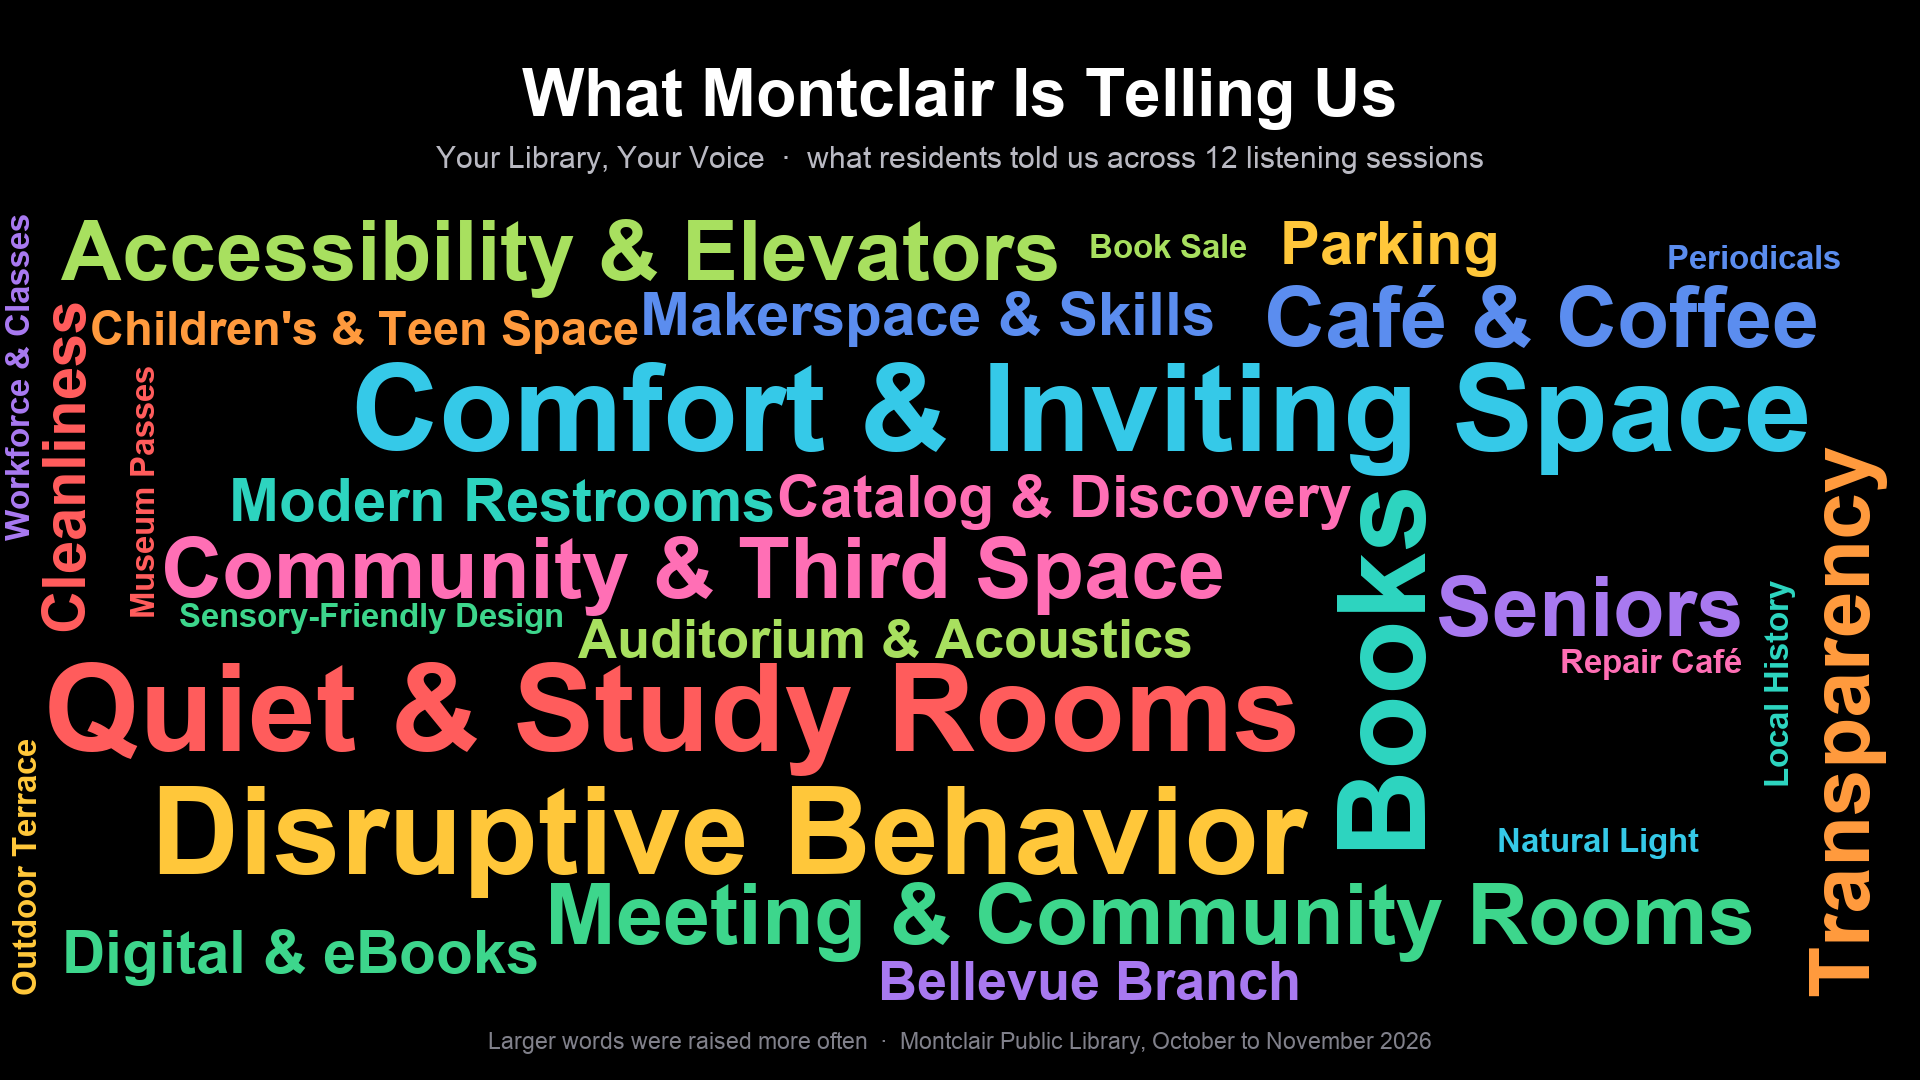
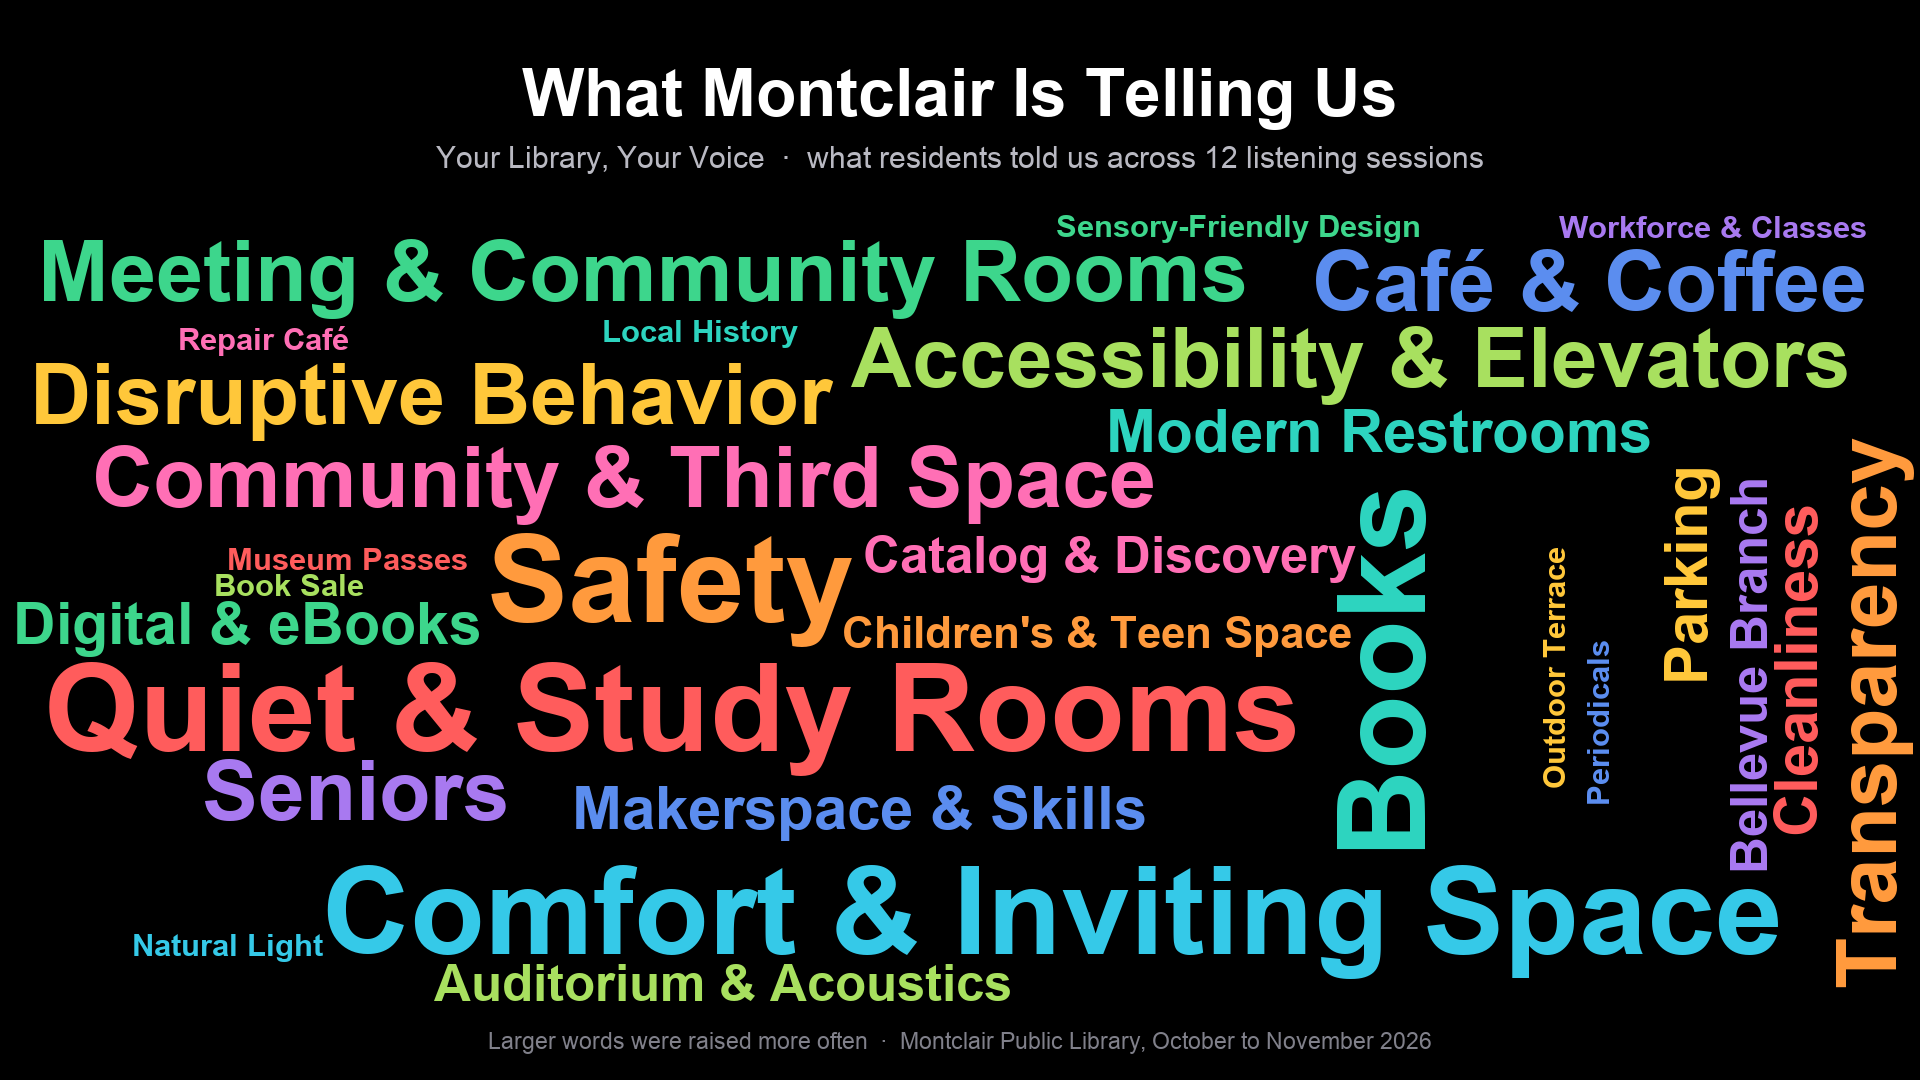
Word cloud: add "Safety" at top tier, drop Disruptive Behavior to L
Add Safety as an XL term and move Disruptive Behavior down one tier. Update
alt text and cache tag (v=6).

Changed region(s): [[0.0, 0.1833, 1.0, 0.9472]]

diff --git a/updates/2026-11-more-chances-to-be-heard.html b/updates/2026-11-more-chances-to-be-heard.html
@@ -14,15 +14,15 @@
 <meta property="og:title" content="More Chances to Be Heard">
 <meta property="og:description" content="The first round of Your Library, Your Voice listening sessions has wrapped. See what residents told us, and join one of nine new sessions, including late-evening virtual ones for parents.">
 <meta property="og:url" content="https://montclairlibrary.github.io/renovation/updates/2026-11-more-chances-to-be-heard.html">
-<meta property="og:image" content="https://montclairlibrary.github.io/renovation/listening-sessions-wordcloud.png?v=5">
+<meta property="og:image" content="https://montclairlibrary.github.io/renovation/listening-sessions-wordcloud.png?v=6">
 <meta property="og:image:width" content="1920">
 <meta property="og:image:height" content="1080">
-<meta property="og:image:alt" content="A word cloud of what Montclair residents told us across 12 listening sessions, with Quiet and Study Rooms, Books, Disruptive Behavior, and Comfort and Inviting Space the largest.">
+<meta property="og:image:alt" content="A word cloud of what Montclair residents told us across 12 listening sessions, with Quiet and Study Rooms, Books, Safety, and Comfort and Inviting Space the largest.">
 
 <meta name="twitter:card" content="summary_large_image">
 <meta name="twitter:title" content="More Chances to Be Heard">
 <meta name="twitter:description" content="The first round of listening sessions wrapped. See what we heard, and join one of nine new sessions.">
-<meta name="twitter:image" content="https://montclairlibrary.github.io/renovation/listening-sessions-wordcloud.png?v=5">
+<meta name="twitter:image" content="https://montclairlibrary.github.io/renovation/listening-sessions-wordcloud.png?v=6">
 
 <link rel="preconnect" href="https://fonts.googleapis.com">
 <link rel="preconnect" href="https://fonts.gstatic.com" crossorigin>
@@ -64,11 +64,11 @@
         <p>Across twelve sessions, a clear set of priorities surfaced again and again. The word cloud below is a snapshot: the larger the words, the more often residents raised them.</p>
       </div>
       <figure class="wc-figure">
-        <img src="../listening-sessions-wordcloud.png?v=5" alt="A word cloud of what Montclair residents told us across 12 listening sessions. The largest themes are Quiet and Study Rooms, Books, Disruptive Behavior, and Comfort and Inviting Space, followed by Café and Coffee, Meeting and Community Rooms, Seniors, Accessibility, Transparency, and many more.">
+        <img src="../listening-sessions-wordcloud.png?v=6" alt="A word cloud of what Montclair residents told us across 12 listening sessions. The largest themes are Quiet and Study Rooms, Books, Safety, and Comfort and Inviting Space, followed by Disruptive Behavior, Café and Coffee, Meeting and Community Rooms, Seniors, Accessibility, Transparency, and many more.">
         <figcaption>What Montclair is telling us, drawn from 12 Your Library, Your Voice listening sessions.</figcaption>
       </figure>
       <div class="wc-actions">
-        <a class="btn btn-outline" href="../listening-sessions-wordcloud.png?v=5" download>Download this graphic (PNG)</a>
+        <a class="btn btn-outline" href="../listening-sessions-wordcloud.png?v=6" download>Download this graphic (PNG)</a>
       </div>
 
       <h3 class="arch-subhead">Why we're adding more</h3>
